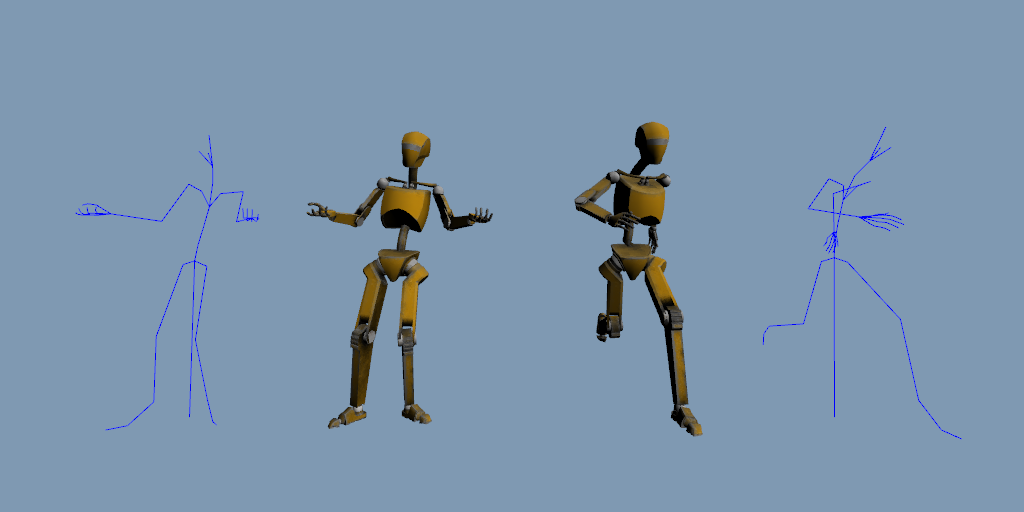
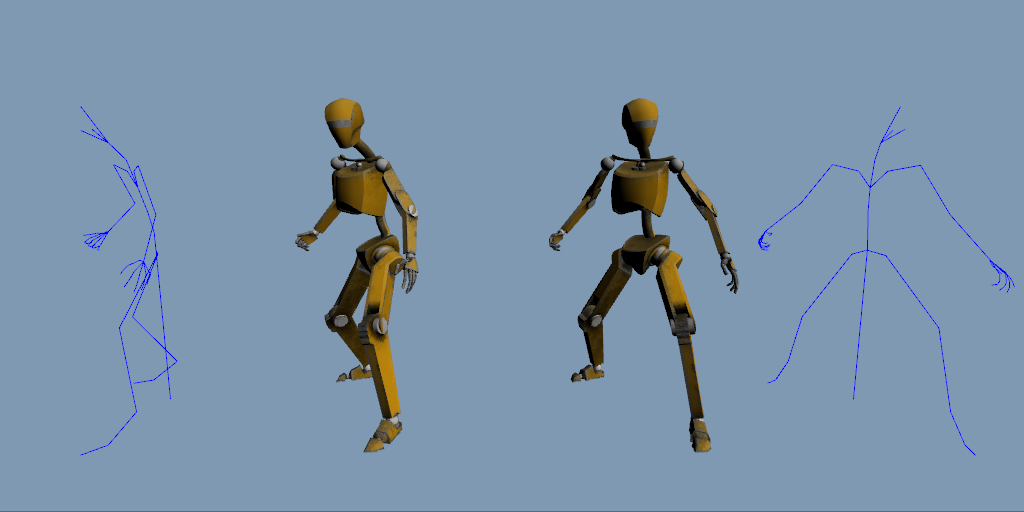
knight code

diff --git a/media/scene/blender_util.py b/media/scene/blender_util.py
@@ -31,11 +31,11 @@ for ob in bpy.context.scene.objects:
         for strip in track.strips:
             print(" " * 4, strip.name, strip.frame_start, strip.frame_end)
 
-# iterate through all keyframes
+# iterate through all keyframes Reference
 # action types, in order to filter the wanted curves if needed
 actionTypes = ('location','rotation_euler','rotation_quaternion','scale')
 # get the object from which we want the animation data
-obj = bpy.data.objects['Reference']
+obj = bpy.data.objects['Armature']
 # if it has some animation
 if obj.animation_data:
     # iterates over the wanted curves
@@ -50,7 +50,7 @@ if obj.animation_data:
 else:
     print("no data")
 
-# reposition animation and delete Tpose      
+# reposition animation 
 for action in bpy.data.actions:
     for fcurve in action.fcurves[0:3]:
         print( fcurve.data_path, fcurve.array_index )
@@ -61,3 +61,47 @@ for action in bpy.data.actions:
                 print( 'frame: ', kf.co.x, ' value: ', kf.co.y )
                 kf.co.y -= kf_1st_value
                 print( 'frame: ', kf.co.x, ' value: ', kf.co.y )
+
+# make animation in place at origin
+actions = [ bpy.data.objects['Armature'].animation_data.action ]
+for action in actions:
+	dist = 0
+	idx = 0
+	for fcurve in action.fcurves[0:3]:
+		print( fcurve.data_path, fcurve.array_index )
+		if ( abs( fcurve.keyframe_points[-1].co.y - fcurve.keyframe_points[0].co.y ) >= dist ):
+			dist = abs( fcurve.keyframe_points[-1].co.y - fcurve.keyframe_points[0].co.y )
+			idx = fcurve.array_index
+	fcurve = action.fcurves[idx]
+	for kf in fcurve.keyframe_points:
+		print( 'frame: ', kf.co.x, ' value: ', kf.co.y )
+		kf.co.y = 0.0
+
+
+# animation length per channel
+actions = [ bpy.data.objects['Armature'].animation_data.action ]
+for action in actions:
+	for fcurve in action.fcurves[0:-1]:
+		if fcurve.array_index != 0:
+			continue
+		kf = fcurve.keyframe_points
+		print( fcurve.data_path, fcurve.array_index, " || ", kf[0].co.x, " - ", kf[-1].co.x )
+
+
+# round animation last key position
+actions = [ bpy.data.objects['Armature'].animation_data.action ]
+for action in actions:
+	for fcurve in action.fcurves[0:-1]:
+		kf = fcurve.keyframe_points
+		kf[-1].co.x = ceil(kf[-1].co.x)
+
+# offset animation keys
+offset = 112
+actions = [ bpy.data.objects['Armature'].animation_data.action ]
+for action in actions:
+	for fcurve in action.fcurves[0:-1]:
+		print( fcurve.data_path, fcurve.array_index )
+		for kf in fcurve.keyframe_points:
+			print( 'frame: ', kf.co.x, ' value: ', kf.co.y )
+			kf.co.x += offset
+

diff --git a/Code/Sample.cpp b/Code/Sample.cpp
@@ -6,7 +6,8 @@
 #include <GL/glew.h>
 
 void Sample::Initialize(const std::string& rootPath) {
-	cgltf_data* gltf = LoadGLTFFile((rootPath + "Assets/robot.gltf").c_str());
+	//cgltf_data* gltf = LoadGLTFFile((rootPath + "Assets/robot.gltf").c_str());
+	cgltf_data* gltf = LoadGLTFFile((rootPath + "Assets/knight.gltf").c_str());
 	LoadMeshes(mCPUMeshes, gltf);
 	mSkeleton = LoadSkeleton(gltf);
 	mClips = LoadAnimationClips(gltf);
@@ -19,8 +20,9 @@ void Sample::Initialize(const std::string& rootPath) {
 
 	mStaticShader = new Shader(rootPath + "Shaders/static.vert", rootPath + "Shaders/lit.frag");
 	mSkinnedShader = new Shader(rootPath + "Shaders/skinned.vert", rootPath + "Shaders/lit.frag");
-	mDiffuseTexture = new Texture((rootPath + "Assets/robot_basecolor.png").c_str());
-	
+	//mDiffuseTexture = new Texture((rootPath + "Assets/robot_basecolor.png").c_str());
+	mDiffuseTexture = new Texture((rootPath + "Assets/knight_basecolor.png").c_str());
+
 	mGPUAnimInfo.mAnimatedPose = mSkeleton.GetRestPose();
 	mGPUAnimInfo.mPosePalette.resize(mSkeleton.GetRestPose().Size());
 	mCPUAnimInfo.mAnimatedPose = mSkeleton.GetRestPose();
@@ -39,10 +41,10 @@ void Sample::Initialize(const std::string& rootPath) {
 
 	unsigned int numUIClips = (unsigned int)mClips.size();
 	for (unsigned int i = 0; i < numUIClips; ++i) {
-		if (mClips[i].GetName() == "Run") {
+		if (mClips[i].GetName() == "run") {
 			mCPUAnimInfo.mClip = i;
 		}
-		else if (mClips[i].GetName() == "Talk") {
+		else if (mClips[i].GetName() == "powerup") {
 			mGPUAnimInfo.mClip = i;
 		}
 	}
@@ -64,7 +66,7 @@ void Sample::Update(float deltaTime) {
 
 void Sample::Render(float inAspectRatio) {
 	mat4 projection = perspective(60.0f, inAspectRatio, 0.01f, 1000.0f);
-	mat4 view = lookAt(vec3(0.0f, 1.0f, 2.75f), vec3(0.0f, 1.0f, 0.0f), vec3(0.0f, 1.0f, 0.0f));
+	mat4 view = lookAt(vec3(0.0f, 1.0f + 0.1f, 2.5f), vec3(0.0f, 0.75f + 0.1f, 0.0f), vec3(0.0f, 1.0f, 0.0f));
 	mat4 model;
 
 	// CPU Skinned Mesh

diff --git a/media/scene/gameanim_gltf_track.py b/media/scene/gameanim_gltf_track.py
@@ -34,6 +34,7 @@ for ob in context.scene.objects:
             if strip.frame_end > maxFrame:
                 maxFrame = strip.frame_end
     
+    maxFrame *= 2
     for track in ob.animation_data.nla_tracks:
         print("  ", track.name)
         track.is_solo = True
@@ -41,7 +42,7 @@ for ob in context.scene.objects:
             print(" " * 4, strip.name, strip.frame_start, strip.frame_end)
             for iFrame in range(int(strip.frame_start),int(maxFrame)+1):
                 scene.frame_set(1+(iFrame-1)%(int(strip.frame_end)))
-                context.scene.render.filepath = "C:\\Users\\NyersCorp\\Documents\\github\\minimal_glfw_gltf_eigen\\build\\"+track.name.lower()+"_"+'{0:06d}'.format(iFrame)
+                context.scene.render.filepath = "C:\\Users\\...\\Documents\\"+track.name.lower()+"_"+'{0:06d}'.format(iFrame)
                 ops.render.render(write_still=True)
 
 print('DONE')

diff --git a/README.md b/README.md
@@ -1,12 +1,13 @@
 # Hands-On C++ Game Animation Programming
 
 <p align="center"><img src="media/robot_sidebyside.png" width="640" /></p>
+<p align="center"><img src="media/knight_sidebyside.png" width="640" /></p>
 
 ## Changes
 * glfw OpenGL context management instead of Win32
 * glew OpenGL loader instead of glad
 * added glm & gtest (math fixes)
-* new character rig and animation
+* new character rig and animation (robot & knight)
 * wip Rokoko ML animation retarget
 
 ## References
